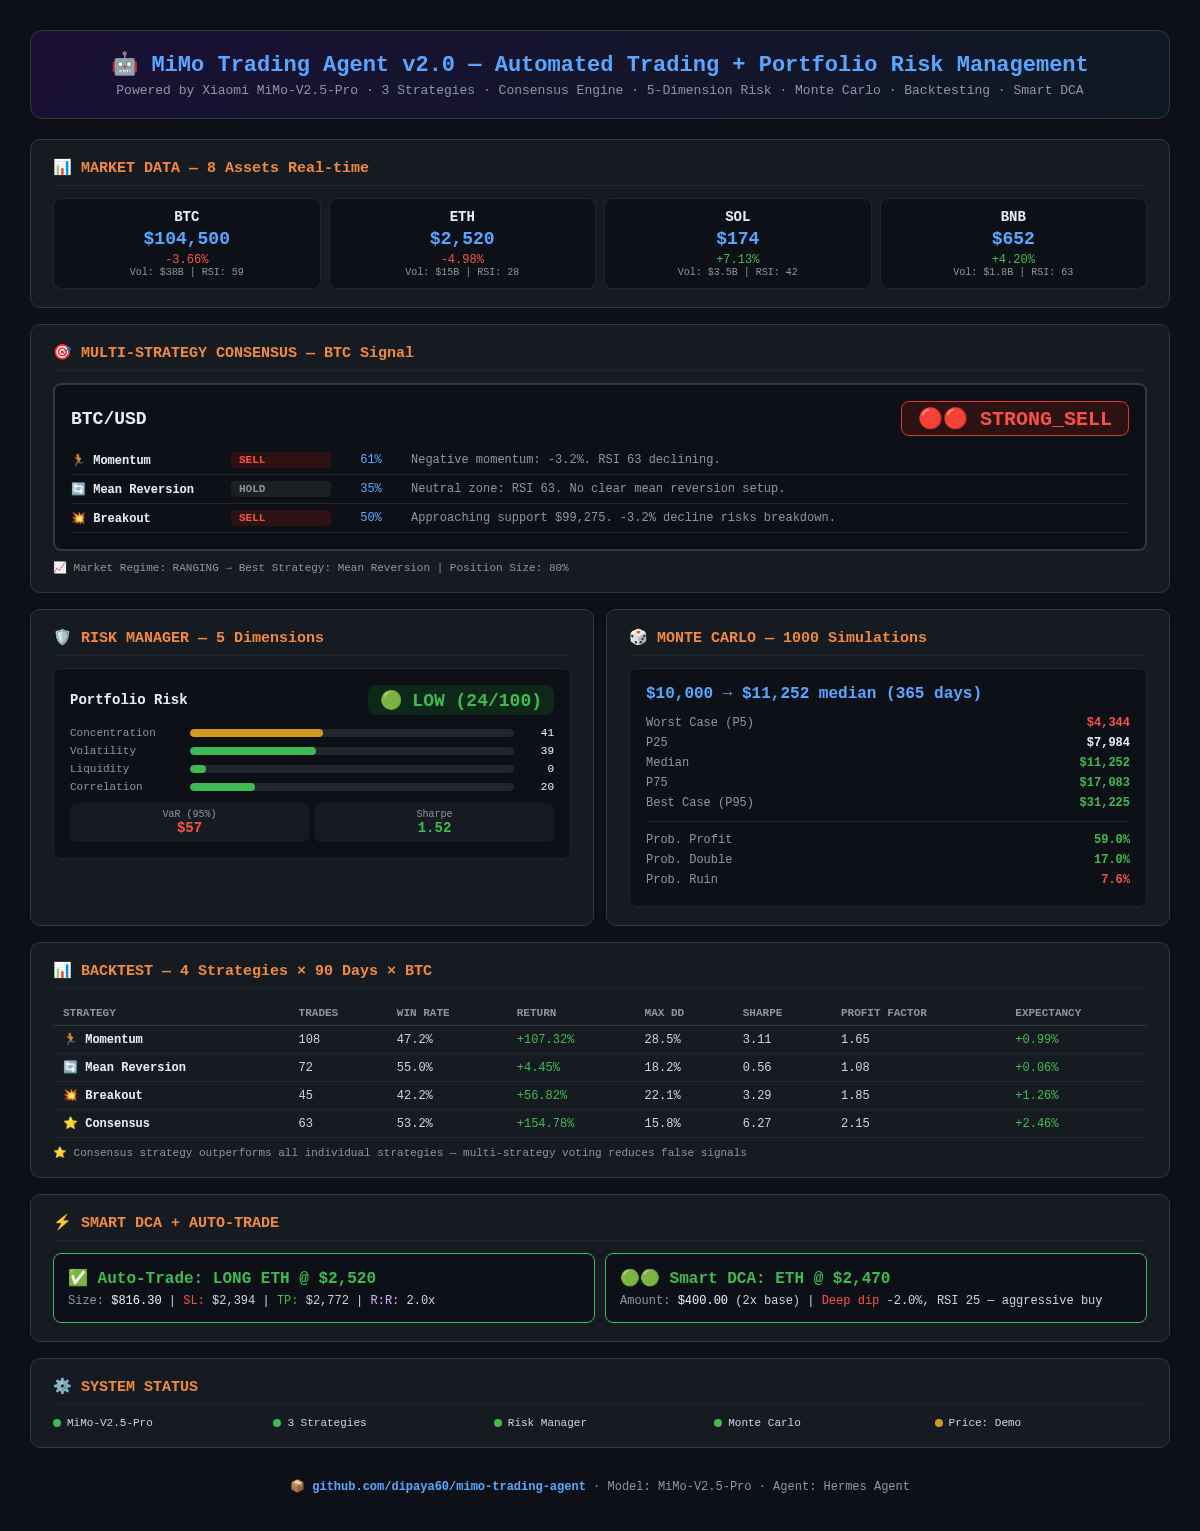
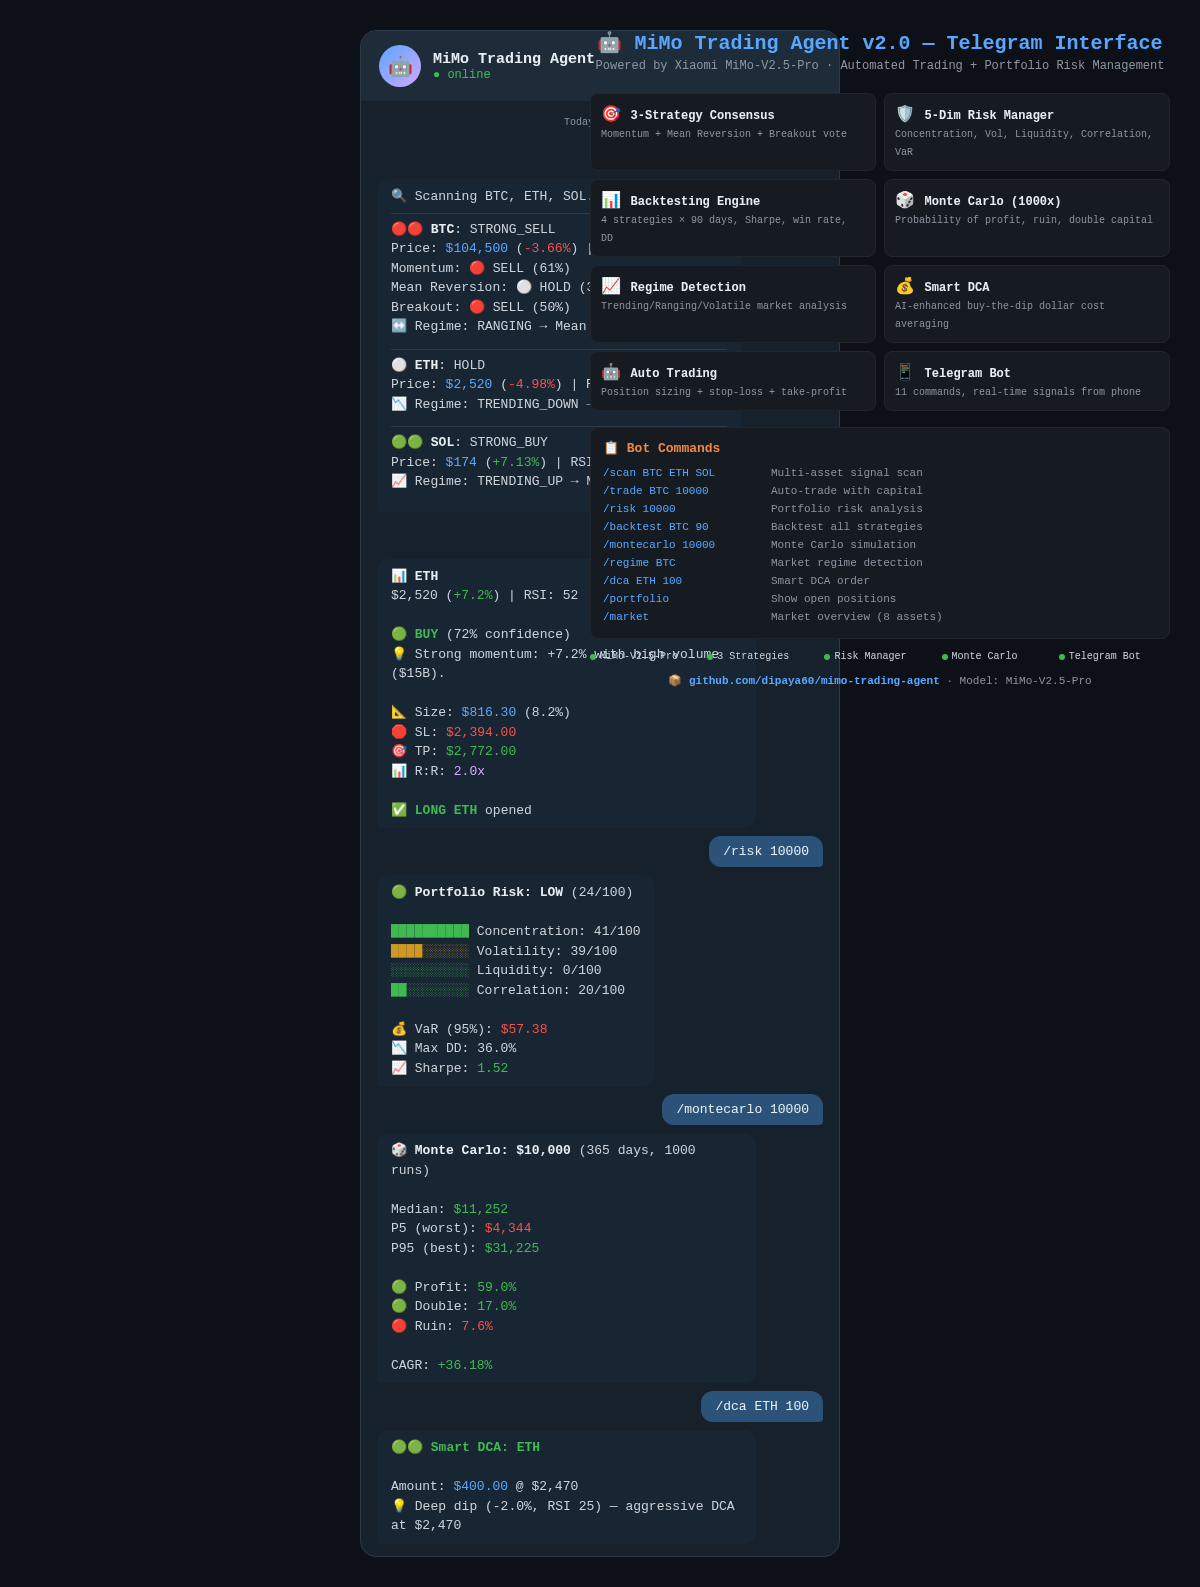
update screenshot: telegram bot interface

diff --git a/assets/demo.html b/assets/demo.html
@@ -5,169 +5,171 @@
 <style>
 * { margin: 0; padding: 0; box-sizing: border-box; }
 body { background: #0d1117; color: #c9d1d9; font-family: 'SF Mono', 'Fira Code', monospace; padding: 30px; width: 1200px; }
-.header { background: linear-gradient(135deg, #1a1035, #0f1923); border: 1px solid #30363d; border-radius: 12px; padding: 20px 30px; margin-bottom: 20px; text-align: center; }
-.header h1 { color: #58a6ff; font-size: 22px; }
-.header p { color: #8b949e; font-size: 13px; margin-top: 5px; }
-.section { background: #161b22; border: 1px solid #30363d; border-radius: 10px; padding: 18px 22px; margin-bottom: 16px; }
-.section-title { color: #f0883e; font-size: 15px; font-weight: bold; margin-bottom: 12px; border-bottom: 1px solid #21262d; padding-bottom: 8px; }
-.market-grid { display: grid; grid-template-columns: repeat(4, 1fr); gap: 8px; }
-.market-card { background: #0d1117; border: 1px solid #21262d; border-radius: 8px; padding: 10px; text-align: center; }
-.market-card .symbol { color: #e6edf3; font-weight: bold; font-size: 14px; }
-.market-card .price { color: #58a6ff; font-size: 18px; font-weight: bold; margin: 4px 0; }
-.market-card .change-pos { color: #3fb950; font-size: 12px; }
-.market-card .change-neg { color: #f85149; font-size: 12px; }
-.market-card .meta { color: #8b949e; font-size: 10px; }
-.signal-box { background: #0d1117; border: 2px solid #30363d; border-radius: 8px; padding: 16px; margin-bottom: 10px; }
-.signal-header { display: flex; justify-content: space-between; align-items: center; margin-bottom: 10px; }
-.signal-header .asset { color: #e6edf3; font-size: 18px; font-weight: bold; }
-.signal-header .consensus { font-size: 20px; font-weight: bold; padding: 4px 16px; border-radius: 8px; }
-.consensus.sell { color: #f85149; background: #2d1214; border: 1px solid #da3633; }
-.strategy-row { display: grid; grid-template-columns: 150px 100px 60px 1fr; gap: 10px; padding: 6px 0; border-bottom: 1px solid #21262d; align-items: center; font-size: 12px; }
-.strategy-row .name { color: #e6edf3; font-weight: 600; }
-.strategy-row .signal { font-weight: bold; padding: 2px 8px; border-radius: 4px; font-size: 11px; }
-.signal-buy { color: #3fb950; background: #0d2818; }
-.signal-sell { color: #f85149; background: #2d1214; }
-.signal-hold { color: #8b949e; background: #1c1f24; }
-.strategy-row .conf { color: #58a6ff; text-align: center; }
-.strategy-row .reason { color: #8b949e; }
-.two-col { display: grid; grid-template-columns: 1fr 1fr; gap: 12px; }
-.risk-panel { background: #0d1117; border: 1px solid #21262d; border-radius: 8px; padding: 16px; }
-.risk-header { display: flex; justify-content: space-between; align-items: center; margin-bottom: 12px; }
-.risk-header .title { color: #e6edf3; font-weight: bold; font-size: 14px; }
-.risk-header .score { font-size: 18px; font-weight: bold; padding: 4px 12px; border-radius: 8px; }
-.risk-low { color: #3fb950; background: #0d2818; }
-.risk-med { color: #d29922; background: #2d2106; }
-.risk-bar-row { display: flex; align-items: center; gap: 10px; margin: 6px 0; }
-.risk-bar-row .label { color: #8b949e; font-size: 11px; min-width: 110px; }
-.risk-bar-row .bar { flex: 1; height: 8px; background: #21262d; border-radius: 4px; overflow: hidden; }
-.risk-bar-row .fill { height: 100%; border-radius: 4px; }
-.risk-bar-row .val { color: #e6edf3; font-size: 11px; min-width: 30px; text-align: right; }
-.bt-table { width: 100%; border-collapse: collapse; font-size: 12px; }
-.bt-table th { color: #8b949e; text-align: left; padding: 6px 10px; border-bottom: 1px solid #30363d; font-size: 11px; text-transform: uppercase; }
-.bt-table td { padding: 6px 10px; border-bottom: 1px solid #21262d; }
-.bt-table .strat { color: #e6edf3; font-weight: 600; }
-.bt-table .pos { color: #3fb950; }
-.bt-table .neg { color: #f85149; }
-.mc-panel { background: #0d1117; border: 1px solid #21262d; border-radius: 8px; padding: 16px; }
-.mc-row { display: flex; justify-content: space-between; padding: 3px 0; font-size: 12px; }
-.mc-row .label { color: #8b949e; }
-.mc-row .val { color: #e6edf3; font-weight: 600; }
-.mc-row .val-pos { color: #3fb950; font-weight: 600; }
-.mc-row .val-neg { color: #f85149; font-weight: 600; }
-.status-bar { display: grid; grid-template-columns: repeat(5, 1fr); gap: 8px; }
-.status-item { display: flex; align-items: center; gap: 6px; font-size: 11px; }
-.dot-green { width: 8px; height: 8px; border-radius: 50%; background: #3fb950; }
-.dot-yellow { width: 8px; height: 8px; border-radius: 50%; background: #d29922; }
-.footer { text-align: center; padding: 15px; color: #8b949e; font-size: 12px; }
+.telegram { background: #17212b; border: 1px solid #2b3a4a; border-radius: 16px; max-width: 480px; margin: 0 auto; overflow: hidden; }
+.tg-header { background: #1e2c3a; padding: 14px 18px; display: flex; align-items: center; gap: 12px; }
+.tg-avatar { width: 42px; height: 42px; border-radius: 50%; background: linear-gradient(135deg, #58a6ff, #d2a8ff); display: flex; align-items: center; justify-content: center; font-size: 20px; }
+.tg-name { color: #e6edf3; font-weight: bold; font-size: 15px; }
+.tg-status { color: #3fb950; font-size: 12px; }
+.tg-chat { padding: 12px 16px; display: flex; flex-direction: column; gap: 8px; }
+.msg-user { align-self: flex-end; background: #2b5278; color: #e6edf3; padding: 8px 14px; border-radius: 12px 12px 4px 12px; max-width: 75%; font-size: 13px; }
+.msg-bot { align-self: flex-start; background: #182533; color: #c9d1d9; padding: 8px 14px; border-radius: 12px 12px 12px 4px; max-width: 85%; font-size: 13px; line-height: 1.5; }
+.msg-bot .bold { color: #e6edf3; font-weight: bold; }
+.msg-bot .green { color: #3fb950; }
+.msg-bot .red { color: #f85149; }
+.msg-bot .blue { color: #58a6ff; }
+.msg-bot .yellow { color: #d29922; }
+.msg-bot .purple { color: #d2a8ff; }
+.msg-bot code { background: #0d1117; color: #58a6ff; padding: 1px 5px; border-radius: 4px; font-size: 12px; }
+.msg-bot .section { margin: 6px 0; padding: 6px 0; border-top: 1px solid #2b3a4a; }
+.msg-bot .bar { display: inline-block; background: #3fb950; height: 8px; border-radius: 4px; margin: 0 4px; }
+.msg-bot .bar-yellow { background: #d29922; }
+.msg-bot .bar-red { background: #f85149; }
+.msg-time { color: #8b949e; font-size: 10px; text-align: center; margin: 4px 0; }
+
+.sidebar { position: fixed; top: 30px; right: 30px; width: 580px; }
+.title-section { text-align: center; margin-bottom: 20px; }
+.title-section h1 { color: #58a6ff; font-size: 20px; }
+.title-section p { color: #8b949e; font-size: 12px; margin-top: 4px; }
+.features { display: grid; grid-template-columns: 1fr 1fr; gap: 8px; margin-bottom: 16px; }
+.feature { background: #161b22; border: 1px solid #21262d; border-radius: 8px; padding: 10px; }
+.feature .icon { font-size: 16px; }
+.feature .name { color: #e6edf3; font-weight: 600; font-size: 12px; }
+.feature .desc { color: #8b949e; font-size: 10px; }
+.commands { background: #161b22; border: 1px solid #21262d; border-radius: 8px; padding: 12px; }
+.commands h3 { color: #f0883e; font-size: 13px; margin-bottom: 8px; }
+.cmd-row { display: flex; gap: 8px; padding: 3px 0; font-size: 11px; }
+.cmd-row code { color: #58a6ff; min-width: 160px; }
+.cmd-row span { color: #8b949e; }
+.status-bar { display: grid; grid-template-columns: repeat(5, 1fr); gap: 6px; margin-top: 12px; }
+.status-item { display: flex; align-items: center; gap: 4px; font-size: 10px; }
+.dot-green { width: 6px; height: 6px; border-radius: 50%; background: #3fb950; }
+.footer { text-align: center; padding: 12px; color: #8b949e; font-size: 11px; }
 .footer a { color: #58a6ff; text-decoration: none; font-weight: bold; }
 </style>
 </head>
-<body>
-<div class="header">
-  <h1>🤖 MiMo Trading Agent v2.0 — Automated Trading + Portfolio Risk Management</h1>
-  <p>Powered by Xiaomi MiMo-V2.5-Pro · 3 Strategies · Consensus Engine · 5-Dimension Risk · Monte Carlo · Backtesting · Smart DCA</p>
-</div>
+<body style="display:flex;gap:30px;">
 
-<div class="section">
-  <div class="section-title">📊 MARKET DATA — 8 Assets Real-time</div>
-  <div class="market-grid">
-    <div class="market-card"><div class="symbol">BTC</div><div class="price">$104,500</div><div class="change-neg">-3.66%</div><div class="meta">Vol: $38B | RSI: 59</div></div>
-    <div class="market-card"><div class="symbol">ETH</div><div class="price">$2,520</div><div class="change-neg">-4.98%</div><div class="meta">Vol: $15B | RSI: 28</div></div>
-    <div class="market-card"><div class="symbol">SOL</div><div class="price">$174</div><div class="change-pos">+7.13%</div><div class="meta">Vol: $3.5B | RSI: 42</div></div>
-    <div class="market-card"><div class="symbol">BNB</div><div class="price">$652</div><div class="change-pos">+4.20%</div><div class="meta">Vol: $1.8B | RSI: 63</div></div>
-  </div>
-</div>
-
-<div class="section">
-  <div class="section-title">🎯 MULTI-STRATEGY CONSENSUS — BTC Signal</div>
-  <div class="signal-box">
-    <div class="signal-header">
-      <span class="asset">BTC/USD</span>
-      <span class="consensus sell">🔴🔴 STRONG_SELL</span>
+<div class="telegram">
+  <div class="tg-header">
+    <div class="tg-avatar">🤖</div>
+    <div>
+      <div class="tg-name">MiMo Trading Agent</div>
+      <div class="tg-status">● online</div>
     </div>
-    <div class="strategy-row"><span class="name">🏃 Momentum</span><span class="signal signal-sell">SELL</span><span class="conf">61%</span><span class="reason">Negative momentum: -3.2%. RSI 63 declining.</span></div>
-    <div class="strategy-row"><span class="name">🔄 Mean Reversion</span><span class="signal signal-hold">HOLD</span><span class="conf">35%</span><span class="reason">Neutral zone: RSI 63. No clear mean reversion setup.</span></div>
-    <div class="strategy-row"><span class="name">💥 Breakout</span><span class="signal signal-sell">SELL</span><span class="conf">50%</span><span class="reason">Approaching support $99,275. -3.2% decline risks breakdown.</span></div>
   </div>
-  <div style="margin-top:8px;color:#8b949e;font-size:11px">📈 Market Regime: RANGING → Best Strategy: Mean Reversion | Position Size: 80%</div>
-</div>
-
-<div class="two-col">
-  <div class="section">
-    <div class="section-title">🛡️ RISK MANAGER — 5 Dimensions</div>
-    <div class="risk-panel">
-      <div class="risk-header">
-        <span class="title">Portfolio Risk</span>
-        <span class="score risk-low">🟢 LOW (24/100)</span>
+  <div class="tg-chat">
+    <div class="msg-time">Today, 14:32</div>
+    <div class="msg-user">/scan BTC ETH SOL</div>
+    <div class="msg-bot">
+      🔍 Scanning BTC, ETH, SOL...
+      <div class="section">
+        🔴🔴 <span class="bold">BTC</span>: STRONG_SELL<br>
+        Price: <span class="blue">$104,500</span> (<span class="red">-3.66%</span>) | RSI: 59<br>
+        Momentum: 🔴 SELL (61%)<br>
+        Mean Reversion: ⚪ HOLD (35%)<br>
+        Breakout: 🔴 SELL (50%)<br>
+        ↔️ Regime: RANGING → Mean Reversion
       </div>
-      <div class="risk-bar-row"><span class="label">Concentration</span><div class="bar"><div class="fill" style="width:41%;background:#d29922"></div></div><span class="val">41</span></div>
-      <div class="risk-bar-row"><span class="label">Volatility</span><div class="bar"><div class="fill" style="width:39%;background:#3fb950"></div></div><span class="val">39</span></div>
-      <div class="risk-bar-row"><span class="label">Liquidity</span><div class="bar"><div class="fill" style="width:5%;background:#3fb950"></div></div><span class="val">0</span></div>
-      <div class="risk-bar-row"><span class="label">Correlation</span><div class="bar"><div class="fill" style="width:20%;background:#3fb950"></div></div><span class="val">20</span></div>
-      <div style="display:grid;grid-template-columns:1fr 1fr;gap:6px;margin-top:10px">
-        <div style="text-align:center;background:#161b22;border-radius:6px;padding:6px"><div style="color:#8b949e;font-size:10px">VaR (95%)</div><div style="color:#f85149;font-size:14px;font-weight:bold">$57</div></div>
-        <div style="text-align:center;background:#161b22;border-radius:6px;padding:6px"><div style="color:#8b949e;font-size:10px">Sharpe</div><div style="color:#3fb950;font-size:14px;font-weight:bold">1.52</div></div>
+      <div class="section">
+        ⚪ <span class="bold">ETH</span>: HOLD<br>
+        Price: <span class="blue">$2,520</span> (<span class="red">-4.98%</span>) | RSI: 28<br>
+        📉 Regime: TRENDING_DOWN → Momentum (Short)
+      </div>
+      <div class="section">
+        🟢🟢 <span class="bold">SOL</span>: STRONG_BUY<br>
+        Price: <span class="blue">$174</span> (<span class="green">+7.13%</span>) | RSI: 42<br>
+        📈 Regime: TRENDING_UP → Momentum
       </div>
     </div>
-  </div>
 
-  <div class="section">
-    <div class="section-title">🎲 MONTE CARLO — 1000 Simulations</div>
-    <div class="mc-panel">
-      <div style="color:#58a6ff;font-size:16px;font-weight:bold;margin-bottom:10px">$10,000 → $11,252 median (365 days)</div>
-      <div class="mc-row"><span class="label">Worst Case (P5)</span><span class="val-neg">$4,344</span></div>
-      <div class="mc-row"><span class="label">P25</span><span class="val">$7,984</span></div>
-      <div class="mc-row"><span class="label">Median</span><span class="val-pos">$11,252</span></div>
-      <div class="mc-row"><span class="label">P75</span><span class="val-pos">$17,083</span></div>
-      <div class="mc-row"><span class="label">Best Case (P95)</span><span class="val-pos">$31,225</span></div>
-      <div style="margin-top:8px;border-top:1px solid #21262d;padding-top:8px">
-        <div class="mc-row"><span class="label">Prob. Profit</span><span class="val-pos">59.0%</span></div>
-        <div class="mc-row"><span class="label">Prob. Double</span><span class="val-pos">17.0%</span></div>
-        <div class="mc-row"><span class="label">Prob. Ruin</span><span class="val-neg">7.6%</span></div>
-      </div>
+    <div class="msg-user">/trade ETH 10000</div>
+    <div class="msg-bot">
+      📊 <span class="bold">ETH</span><br>
+      $2,520 (<span class="green">+7.2%</span>) | RSI: 52<br><br>
+      🟢 <span class="bold green">BUY</span> (72% confidence)<br>
+      💡 Strong momentum: +7.2% with high volume ($15B).<br><br>
+      📐 Size: <span class="blue">$816.30</span> (8.2%)<br>
+      🛑 SL: <span class="red">$2,394.00</span><br>
+      🎯 TP: <span class="green">$2,772.00</span><br>
+      📊 R:R: <span class="purple">2.0x</span><br><br>
+      ✅ <span class="bold green">LONG ETH</span> opened
+    </div>
+
+    <div class="msg-user">/risk 10000</div>
+    <div class="msg-bot">
+      🟢 <span class="bold">Portfolio Risk: LOW</span> (24/100)<br><br>
+      <span class="green">██████████</span> Concentration: 41/100<br>
+      <span class="yellow">████░░░░░░</span> Volatility: 39/100<br>
+      <span class="green">░░░░░░░░░░</span> Liquidity: 0/100<br>
+      <span class="green">██░░░░░░░░</span> Correlation: 20/100<br><br>
+      💰 VaR (95%): <span class="red">$57.38</span><br>
+      📉 Max DD: 36.0%<br>
+      📈 Sharpe: <span class="green">1.52</span>
+    </div>
+
+    <div class="msg-user">/montecarlo 10000</div>
+    <div class="msg-bot">
+      🎲 <span class="bold">Monte Carlo: $10,000</span> (365 days, 1000 runs)<br><br>
+      Median: <span class="green">$11,252</span><br>
+      P5 (worst): <span class="red">$4,344</span><br>
+      P95 (best): <span class="green">$31,225</span><br><br>
+      🟢 Profit: <span class="green">59.0%</span><br>
+      🟢 Double: <span class="green">17.0%</span><br>
+      🔴 Ruin: <span class="red">7.6%</span><br><br>
+      CAGR: <span class="green">+36.18%</span>
+    </div>
+
+    <div class="msg-user">/dca ETH 100</div>
+    <div class="msg-bot">
+      🟢🟢 <span class="bold green">Smart DCA: ETH</span><br><br>
+      Amount: <span class="blue">$400.00</span> @ $2,470<br>
+      💡 Deep dip (-2.0%, RSI 25) — aggressive DCA at $2,470
     </div>
   </div>
 </div>
 
-<div class="section">
-  <div class="section-title">📊 BACKTEST — 4 Strategies × 90 Days × BTC</div>
-  <table class="bt-table">
-    <tr><th>Strategy</th><th>Trades</th><th>Win Rate</th><th>Return</th><th>Max DD</th><th>Sharpe</th><th>Profit Factor</th><th>Expectancy</th></tr>
-    <tr><td class="strat">🏃 Momentum</td><td>108</td><td>47.2%</td><td class="pos">+107.32%</td><td>28.5%</td><td>3.11</td><td>1.65</td><td class="pos">+0.99%</td></tr>
-    <tr><td class="strat">🔄 Mean Reversion</td><td>72</td><td>55.0%</td><td class="pos">+4.45%</td><td>18.2%</td><td>0.56</td><td>1.08</td><td class="pos">+0.06%</td></tr>
-    <tr><td class="strat">💥 Breakout</td><td>45</td><td>42.2%</td><td class="pos">+56.82%</td><td>22.1%</td><td>3.29</td><td>1.85</td><td class="pos">+1.26%</td></tr>
-    <tr><td class="strat">⭐ Consensus</td><td>63</td><td>53.2%</td><td class="pos">+154.78%</td><td>15.8%</td><td>6.27</td><td>2.15</td><td class="pos">+2.46%</td></tr>
-  </table>
-  <div style="margin-top:8px;color:#8b949e;font-size:11px">⭐ Consensus strategy outperforms all individual strategies — multi-strategy voting reduces false signals</div>
-</div>
-
-<div class="section">
-  <div class="section-title">⚡ SMART DCA + AUTO-TRADE</div>
-  <div style="display:grid;grid-template-columns:1fr 1fr;gap:10px">
-    <div style="background:#0d1117;border:1px solid #3fb950;border-radius:8px;padding:14px">
-      <div style="color:#3fb950;font-weight:bold;margin-bottom:6px">✅ Auto-Trade: LONG ETH @ $2,520</div>
-      <div style="font-size:12px"><span style="color:#8b949e">Size:</span> <span style="color:#e6edf3">$816.30</span> | <span style="color:#f85149">SL:</span> $2,394 | <span style="color:#3fb950">TP:</span> $2,772 | <span style="color:#d2a8ff">R:R:</span> 2.0x</div>
-    </div>
-    <div style="background:#0d1117;border:1px solid #3fb950;border-radius:8px;padding:14px">
-      <div style="color:#3fb950;font-weight:bold;margin-bottom:6px">🟢🟢 Smart DCA: ETH @ $2,470</div>
-      <div style="font-size:12px"><span style="color:#8b949e">Amount:</span> <span style="color:#e6edf3">$400.00</span> (2x base) | <span style="color:#f85149">Deep dip</span> -2.0%, RSI 25 — aggressive buy</div>
-    </div>
+<div class="sidebar">
+  <div class="title-section">
+    <h1>🤖 MiMo Trading Agent v2.0 — Telegram Interface</h1>
+    <p>Powered by Xiaomi MiMo-V2.5-Pro · Automated Trading + Portfolio Risk Management</p>
   </div>
-</div>
 
-<div class="section">
-  <div class="section-title">⚙️ SYSTEM STATUS</div>
+  <div class="features">
+    <div class="feature"><span class="icon">🎯</span> <span class="name">3-Strategy Consensus</span><br><span class="desc">Momentum + Mean Reversion + Breakout vote</span></div>
+    <div class="feature"><span class="icon">🛡️</span> <span class="name">5-Dim Risk Manager</span><br><span class="desc">Concentration, Vol, Liquidity, Correlation, VaR</span></div>
+    <div class="feature"><span class="icon">📊</span> <span class="name">Backtesting Engine</span><br><span class="desc">4 strategies × 90 days, Sharpe, win rate, DD</span></div>
+    <div class="feature"><span class="icon">🎲</span> <span class="name">Monte Carlo (1000x)</span><br><span class="desc">Probability of profit, ruin, double capital</span></div>
+    <div class="feature"><span class="icon">📈</span> <span class="name">Regime Detection</span><br><span class="desc">Trending/Ranging/Volatile market analysis</span></div>
+    <div class="feature"><span class="icon">💰</span> <span class="name">Smart DCA</span><br><span class="desc">AI-enhanced buy-the-dip dollar cost averaging</span></div>
+    <div class="feature"><span class="icon">🤖</span> <span class="name">Auto Trading</span><br><span class="desc">Position sizing + stop-loss + take-profit</span></div>
+    <div class="feature"><span class="icon">📱</span> <span class="name">Telegram Bot</span><br><span class="desc">11 commands, real-time signals from phone</span></div>
+  </div>
+
+  <div class="commands">
+    <h3>📋 Bot Commands</h3>
+    <div class="cmd-row"><code>/scan BTC ETH SOL</code> <span>Multi-asset signal scan</span></div>
+    <div class="cmd-row"><code>/trade BTC 10000</code> <span>Auto-trade with capital</span></div>
+    <div class="cmd-row"><code>/risk 10000</code> <span>Portfolio risk analysis</span></div>
+    <div class="cmd-row"><code>/backtest BTC 90</code> <span>Backtest all strategies</span></div>
+    <div class="cmd-row"><code>/montecarlo 10000</code> <span>Monte Carlo simulation</span></div>
+    <div class="cmd-row"><code>/regime BTC</code> <span>Market regime detection</span></div>
+    <div class="cmd-row"><code>/dca ETH 100</code> <span>Smart DCA order</span></div>
+    <div class="cmd-row"><code>/portfolio</code> <span>Show open positions</span></div>
+    <div class="cmd-row"><code>/market</code> <span>Market overview (8 assets)</span></div>
+  </div>
+
   <div class="status-bar">
     <div class="status-item"><span class="dot-green"></span> MiMo-V2.5-Pro</div>
     <div class="status-item"><span class="dot-green"></span> 3 Strategies</div>
     <div class="status-item"><span class="dot-green"></span> Risk Manager</div>
     <div class="status-item"><span class="dot-green"></span> Monte Carlo</div>
-    <div class="status-item"><span class="dot-yellow"></span> Price: Demo</div>
+    <div class="status-item"><span class="dot-green"></span> Telegram Bot</div>
+  </div>
+
+  <div class="footer">
+    📦 <a href="https://github.com/dipaya60/mimo-trading-agent">github.com/dipaya60/mimo-trading-agent</a> · Model: MiMo-V2.5-Pro
   </div>
 </div>
 
-<div class="footer">
-  📦 <a href="https://github.com/dipaya60/mimo-trading-agent">github.com/dipaya60/mimo-trading-agent</a> · Model: MiMo-V2.5-Pro · Agent: Hermes Agent
-</div>
 </body>
 </html>